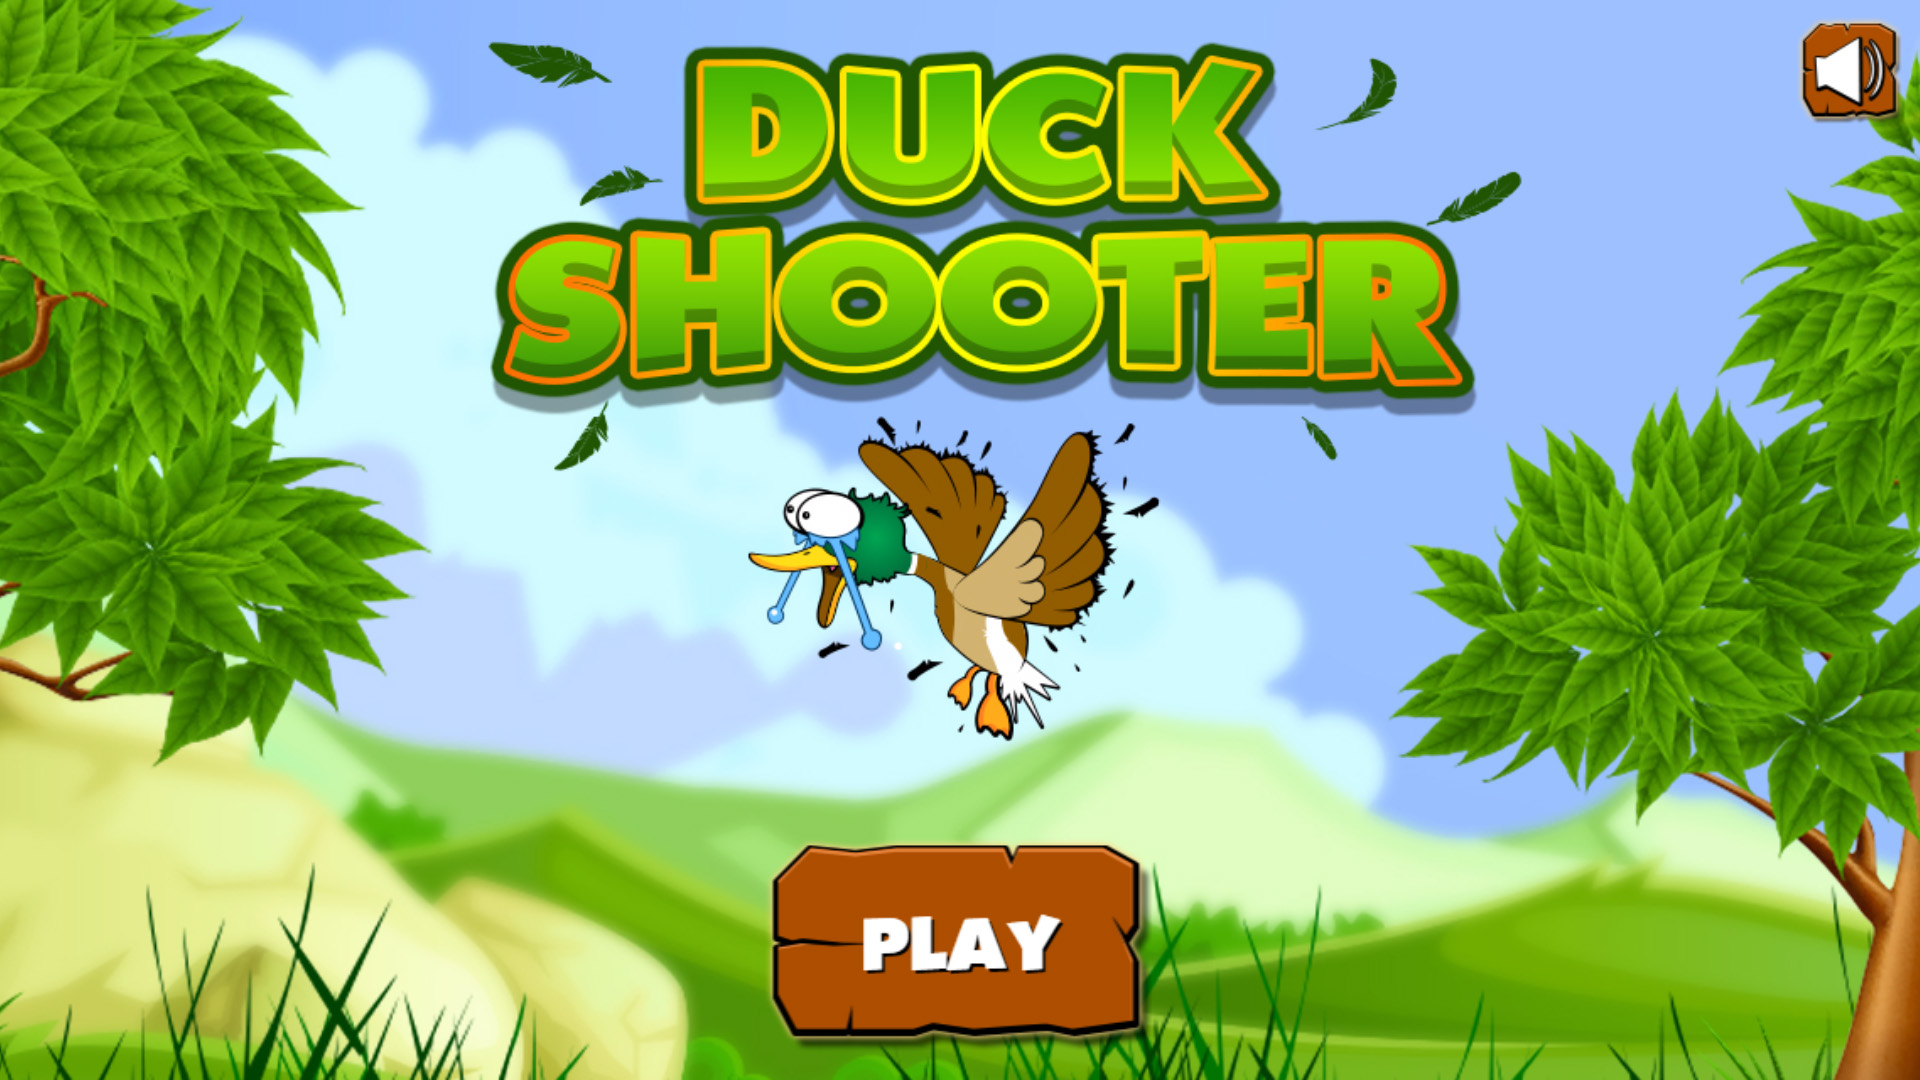
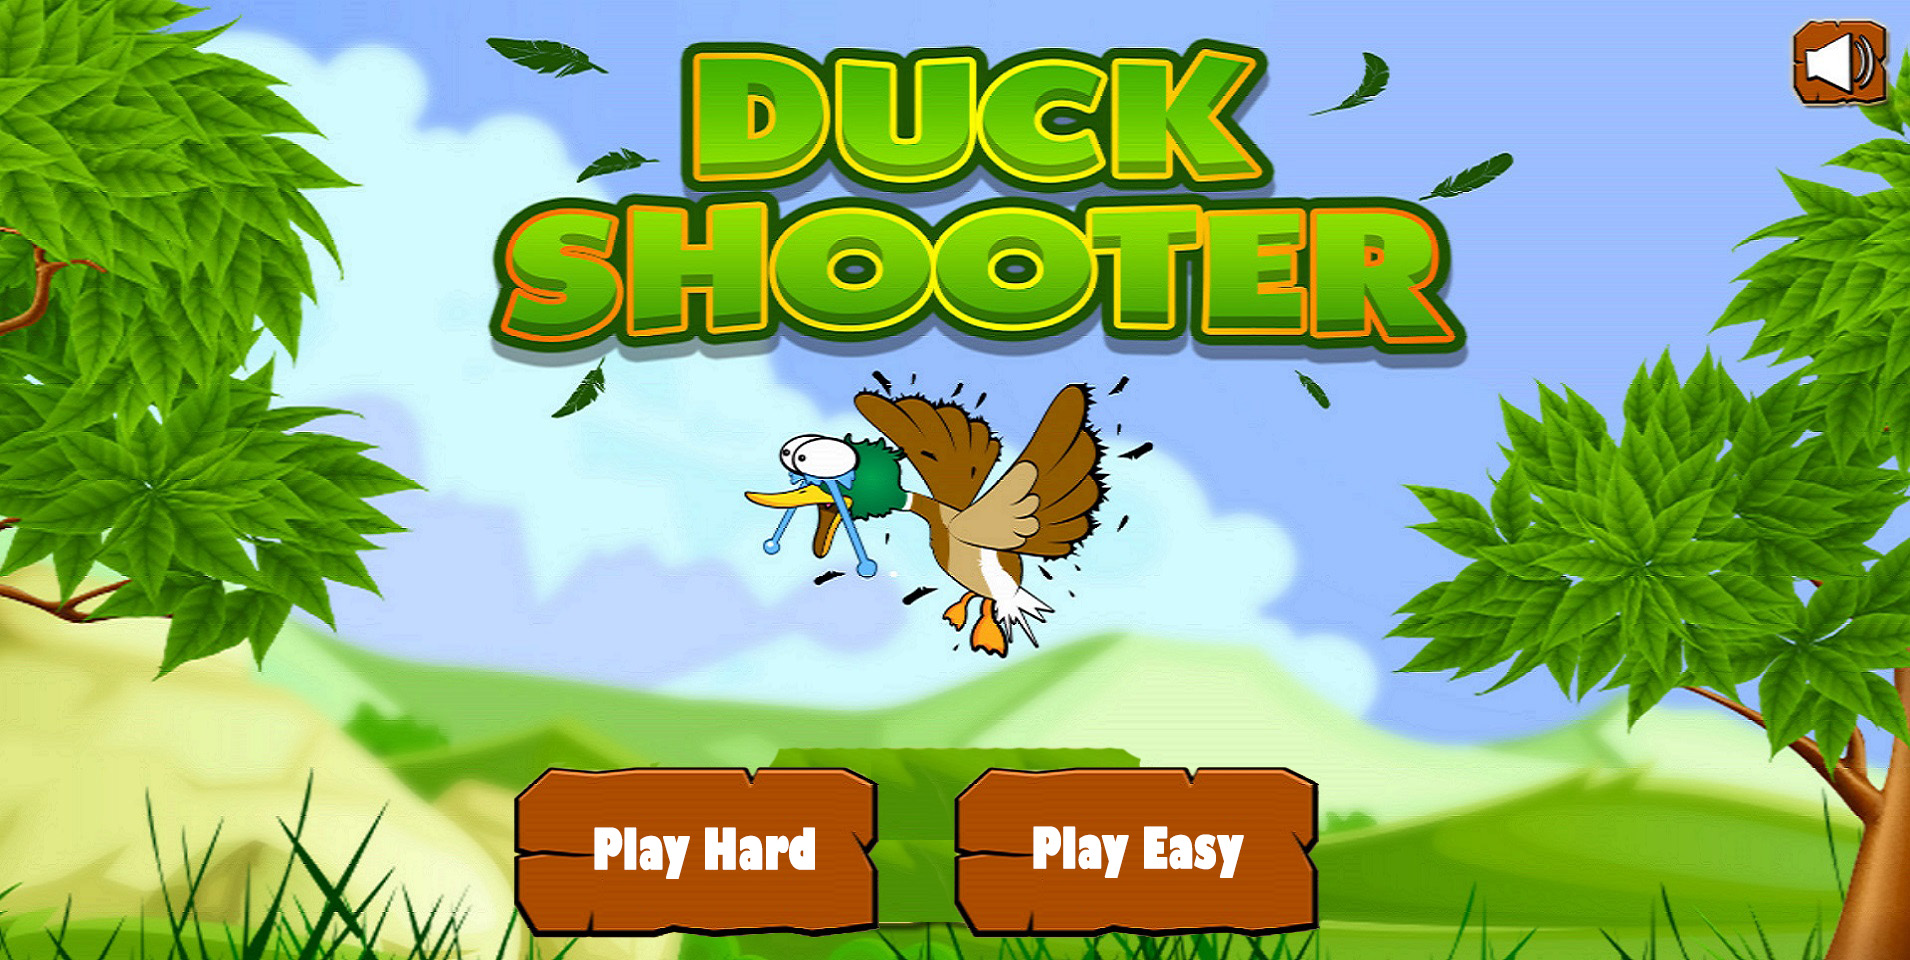
css style first job

diff --git a/pg1.html b/pg1.html
@@ -14,13 +14,11 @@
                 <input placeholder="enter your name" type="text" id="username" required>
                 <br>
                 <br>
-                <input type="submit" value="playEasy" id="playEasyBtn">
+                <input type="submit" id="playEasyBtn"><img src="gallery/images.png" width="50px" height="50px"></input>
                 <input type="submit" value="playHard" id="playHardBtn">
             </form>
-        </div>
-         
-        <!-- to do sweetalert popup library to handle winning or losing game -->
-        
+        </div>   
+        <!-- to do sweetalert popup library to handle winning or losing game -->       
         <script src="js/jquery-3.2.1.js"></script>
         <script src="js/salah.js"></script>
     </body>

diff --git a/styles/gameStyles.css b/styles/gameStyles.css
@@ -2,10 +2,30 @@
     padding: 0;
     margin: 0;
 }
-
-#homepage{
-    background-image: url("home.jpg");
+body{
+    position: fixed;
+    background-image: url("../gallery/home.jpg");
+    background-size: 100%;
     width: 100%;
     height: 100%;
     text-align: center;
+}
+#homepage{
+    position: fixed;
+    top: 30%;
+    left: 35%;
+    width: 30%;
+    height: 40%;
+    background-color: rgba(218, 238, 227, 0.2);
+    transition: transform 3s ;
+    text-align: center;
+    border-radius: 50%;
+
+}
+#homepage:hover, #homepage:active{
+    transform: scale(2);
+    background-color: rgba(212, 226, 218, 0.6);
+}
+form{
+
 }
